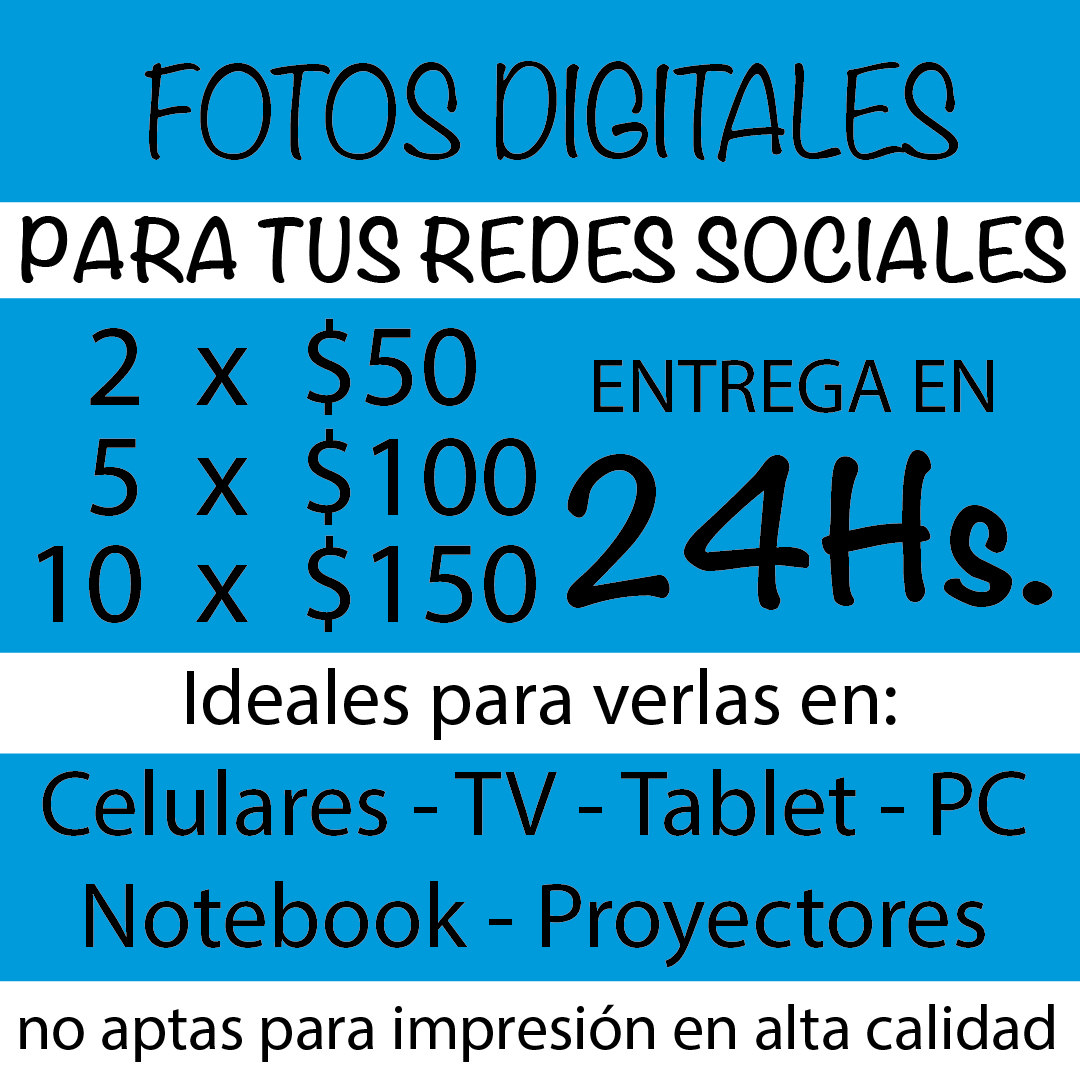
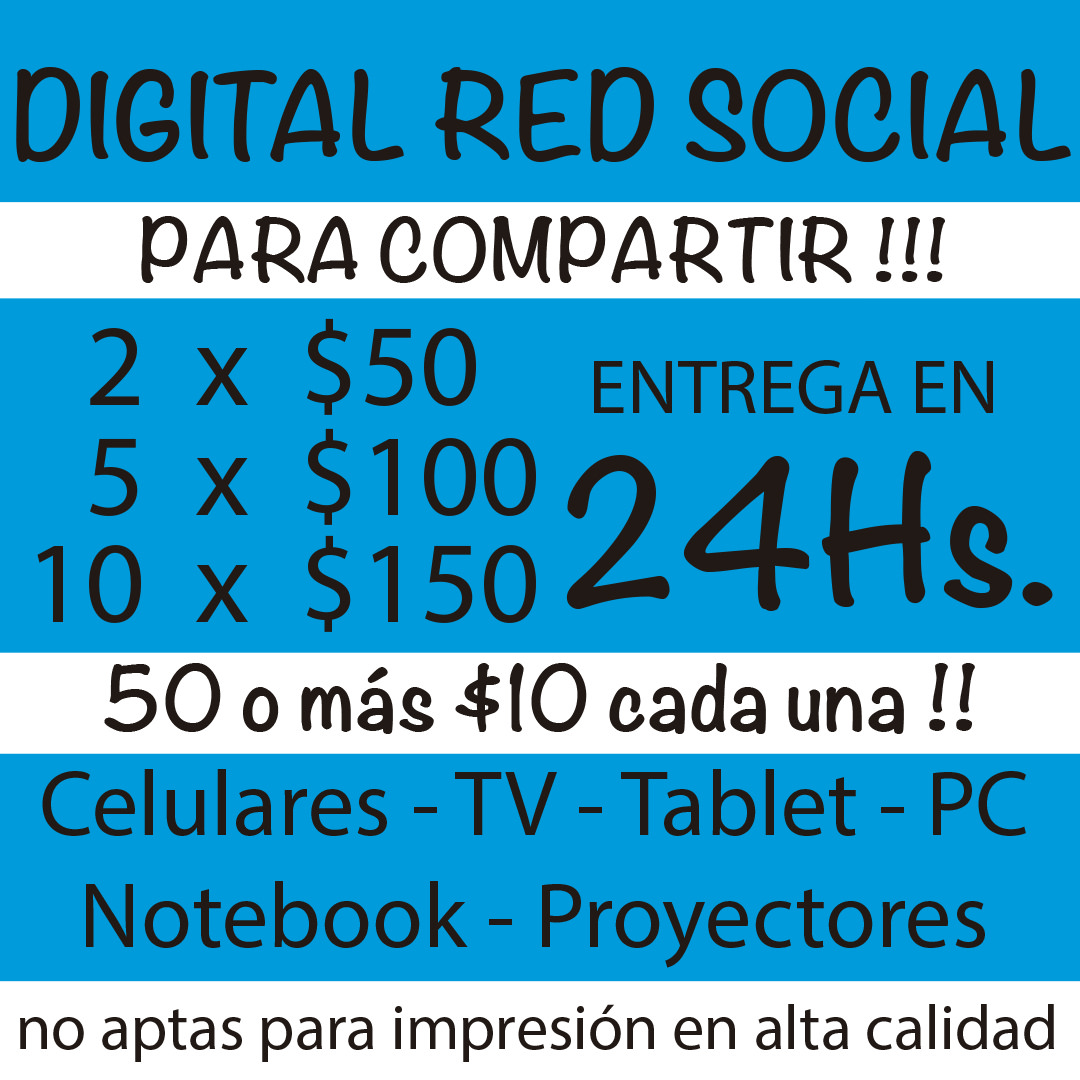
fix de precios y packs

diff --git a/index.html b/index.html
@@ -56,7 +56,7 @@
         </div>
         <div class="window">
             <div class="title">Productos disponibles</div>
-            <h2>Fotos digitales para Patallas</h2>
+            <h2>Foto Digital Red Social</h2>
             <ul>
                 <li>Sin ningún tipo de marca en la foto</li>
                 <li>Tamaño FULL HD 1080p</li>
@@ -70,9 +70,13 @@
                 <br>
                 Varios formatos disponibles.
             </p>
-            <h2>Archivo Digital para imprimir 10x15cm</h2>
+            <h2>Archivo digital para imprimir</h2>
             <p>
-                Archivo con el encuadre y el tratamiendo de color adecuado para una perfecta impresión en cualquier laboratorio express!!
+                Archivo con mayor tamaño que la foto Digital Red Social
+                <br>
+                300 ppp/dpi de definición para garantizar una imágen impactante!!
+                <br>
+                Selecciona entre varios encuadres: 10x15 - 13x18 - 15x20
                 <br>
                 Podés imprimir todas las copiar que quieras con cada archivo!!
             </p>
